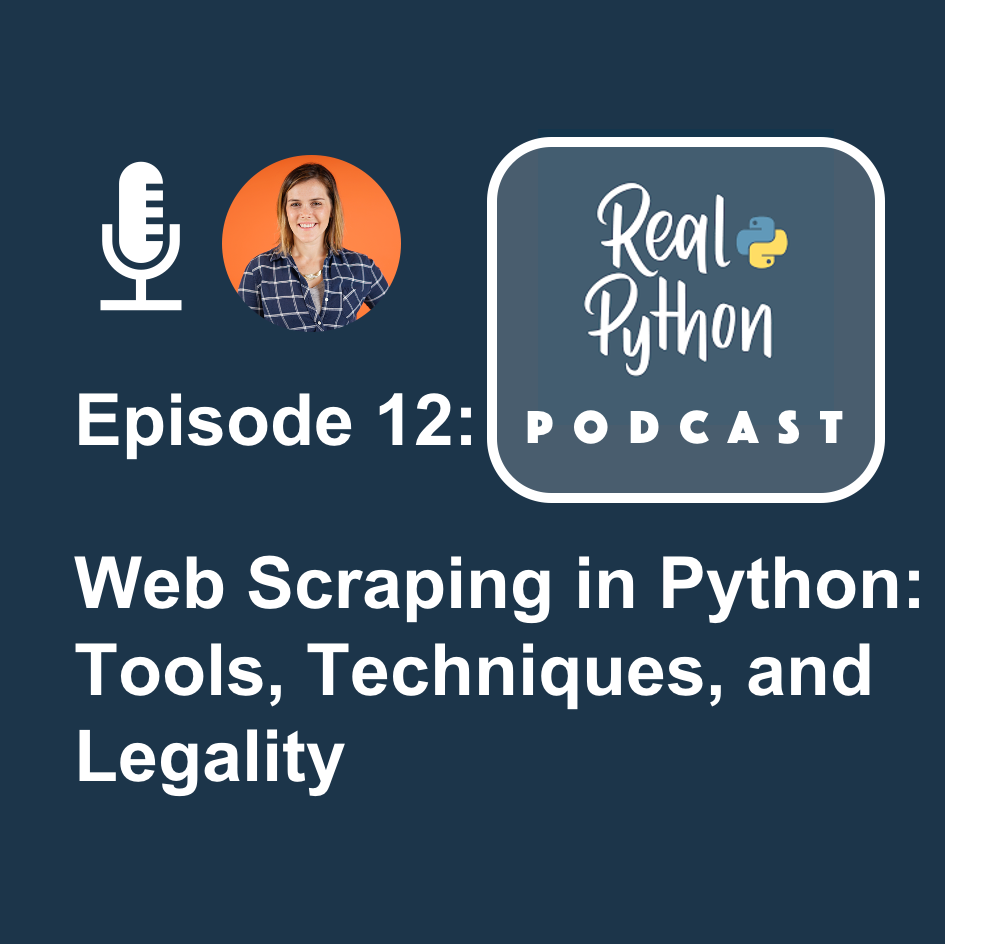
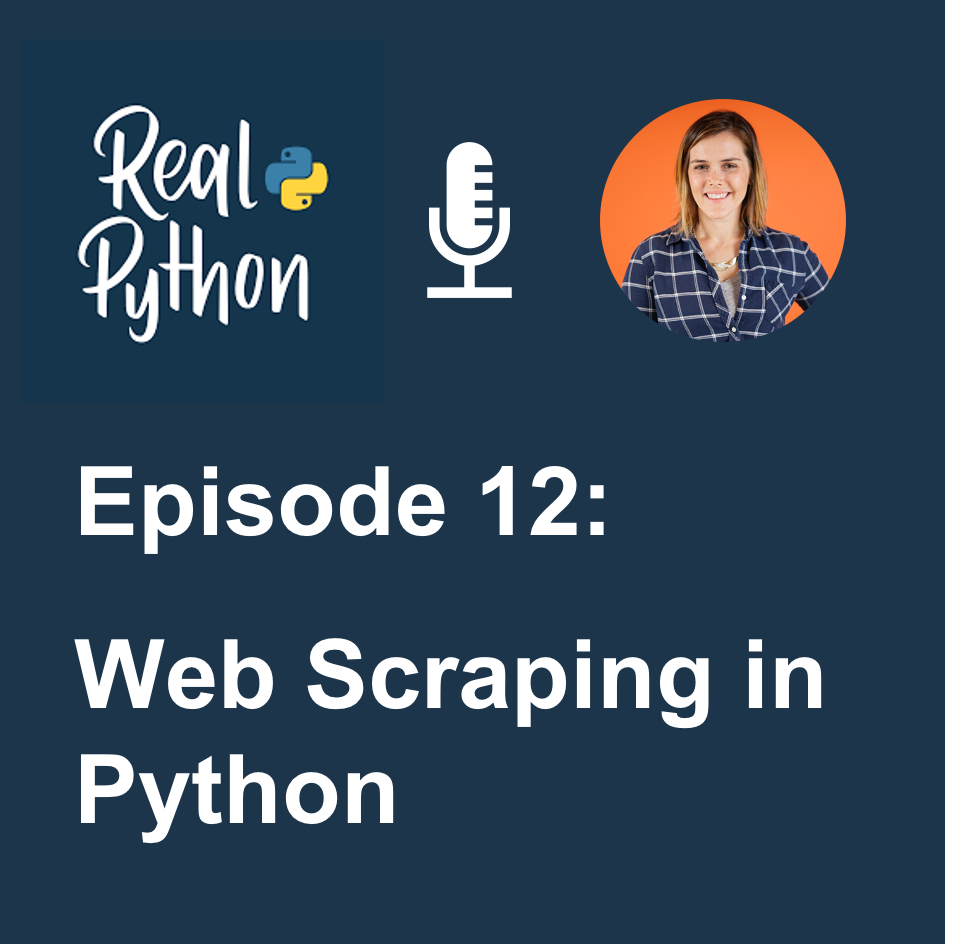
update RPP thumb

diff --git a/pages/pages-root-folder/index.md b/pages/pages-root-folder/index.md
@@ -8,7 +8,7 @@ layout: frontpage
 header:
   image_fullwidth: header5.png
 widget1:
-  title: "Math for Data Science: An Interview with Course Report"
+  title: "Web Scraping in Python: Real Python Podcast""
   url: '/mathematics/course-report-math-ds/'
   image: coursereport_thumb_img.png
   text: "Math skills are critical for a successful career in data science. Find out why in this interview with Course Report."
